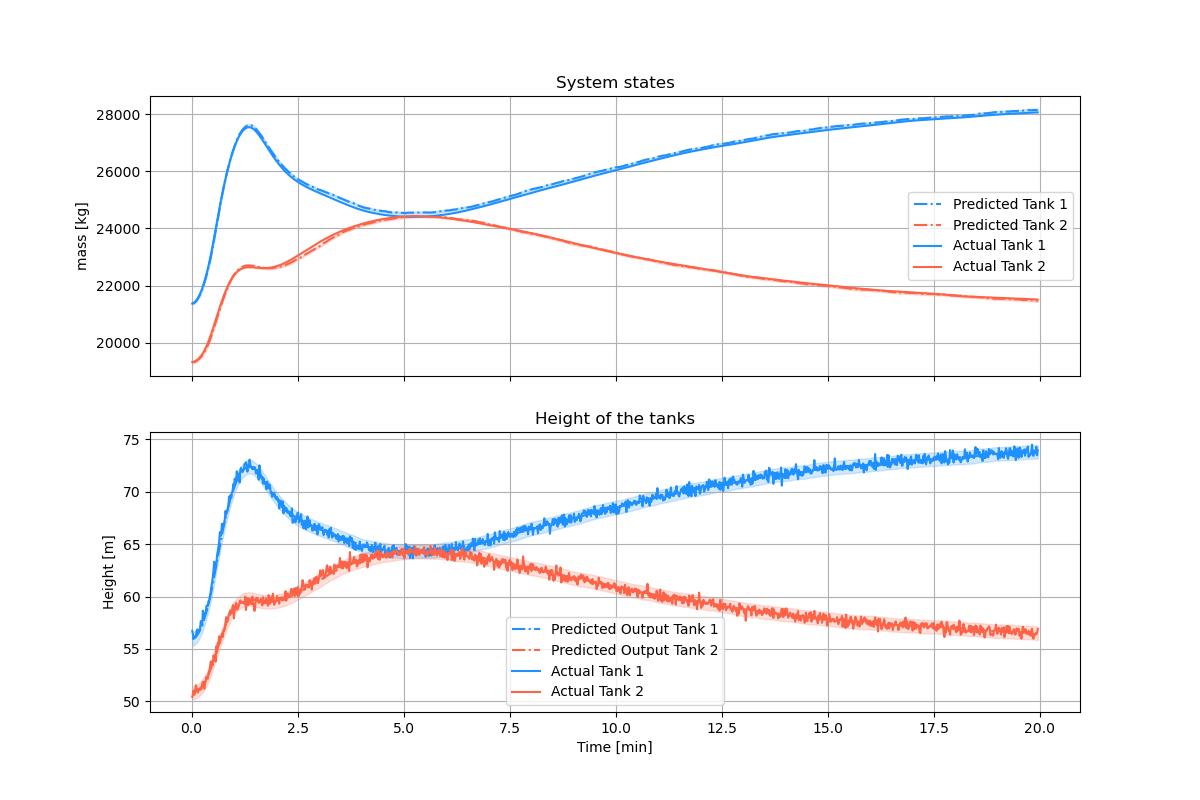
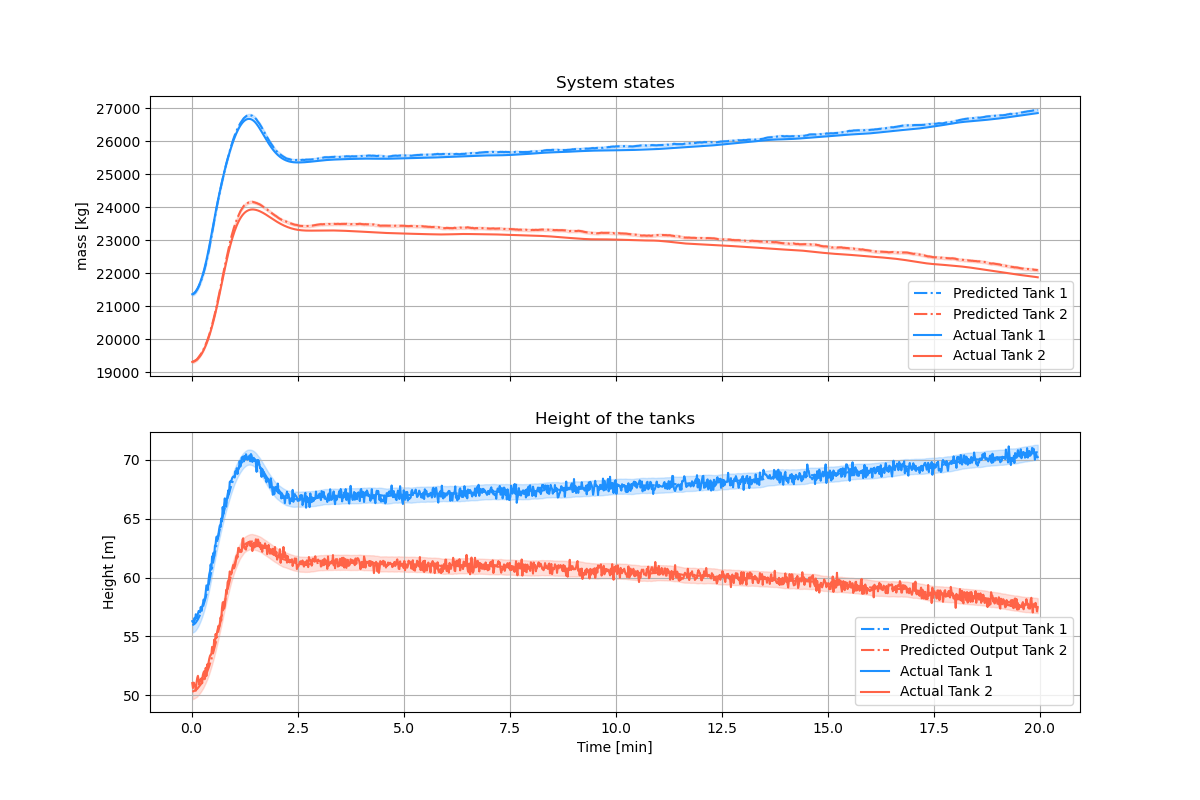
I'm Out
- Oliver Mohr

diff --git a/Problem_9_5.py b/Problem_9_5.py
@@ -78,7 +78,7 @@ if __name__ == "__main__":
     # Wu: Low value (1e-3) to allow sufficient control effort without excessive penalty
     # Wdu: Moderate value (0.8) for smooth but responsive input changes
     mpc_controller = MPC(
-        N=1000, #N_mpc, 
+        N=N_mpc, 
         us=u_op,
         hs=hs,
         U_bar=U_bar,
@@ -99,15 +99,6 @@ if __name__ == "__main__":
         Dmax=Dmax,
     )
 
-    plt.matshow(mpc_controller.Gamma)
-    plt.colorbar()
-    plt.show()
-    plt.matshow(np.block([
-        [data["markov_mat"][:, :2, 1], np.zeros((2, 2))],
-        [data["markov_mat"][:, :2, 2], data["markov_mat"][:, :2, 1]]]))
-    plt.colorbar()
-    plt.show()
-    sys.exit()
     xs_closedloop = xs
 
     t, x, u, d, h = Model_Stochastic.ClosedLoop(np.array([0, N_t]), xs_closedloop, mpc_controller)
